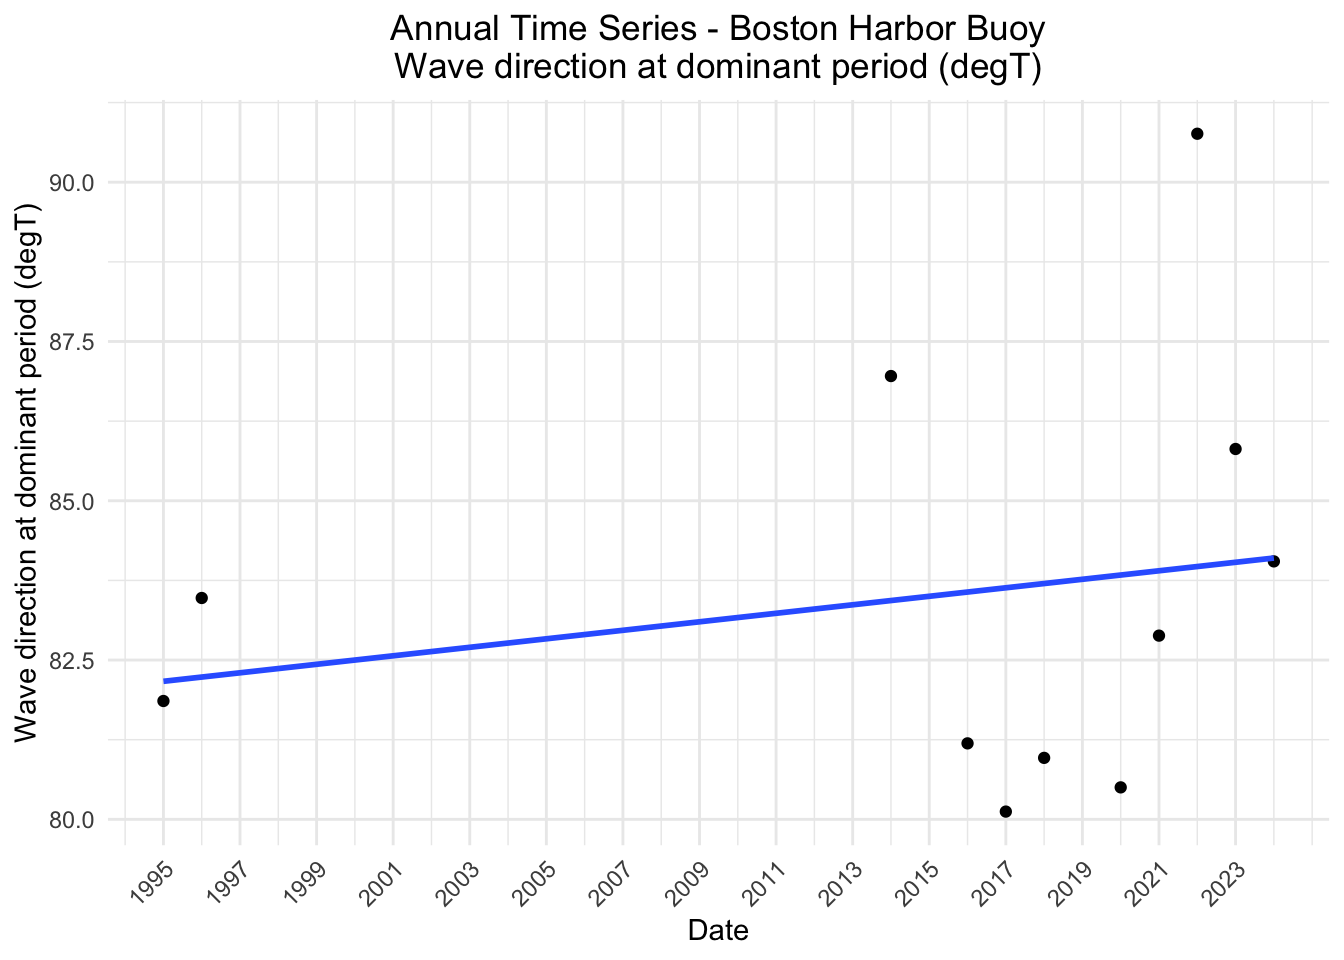
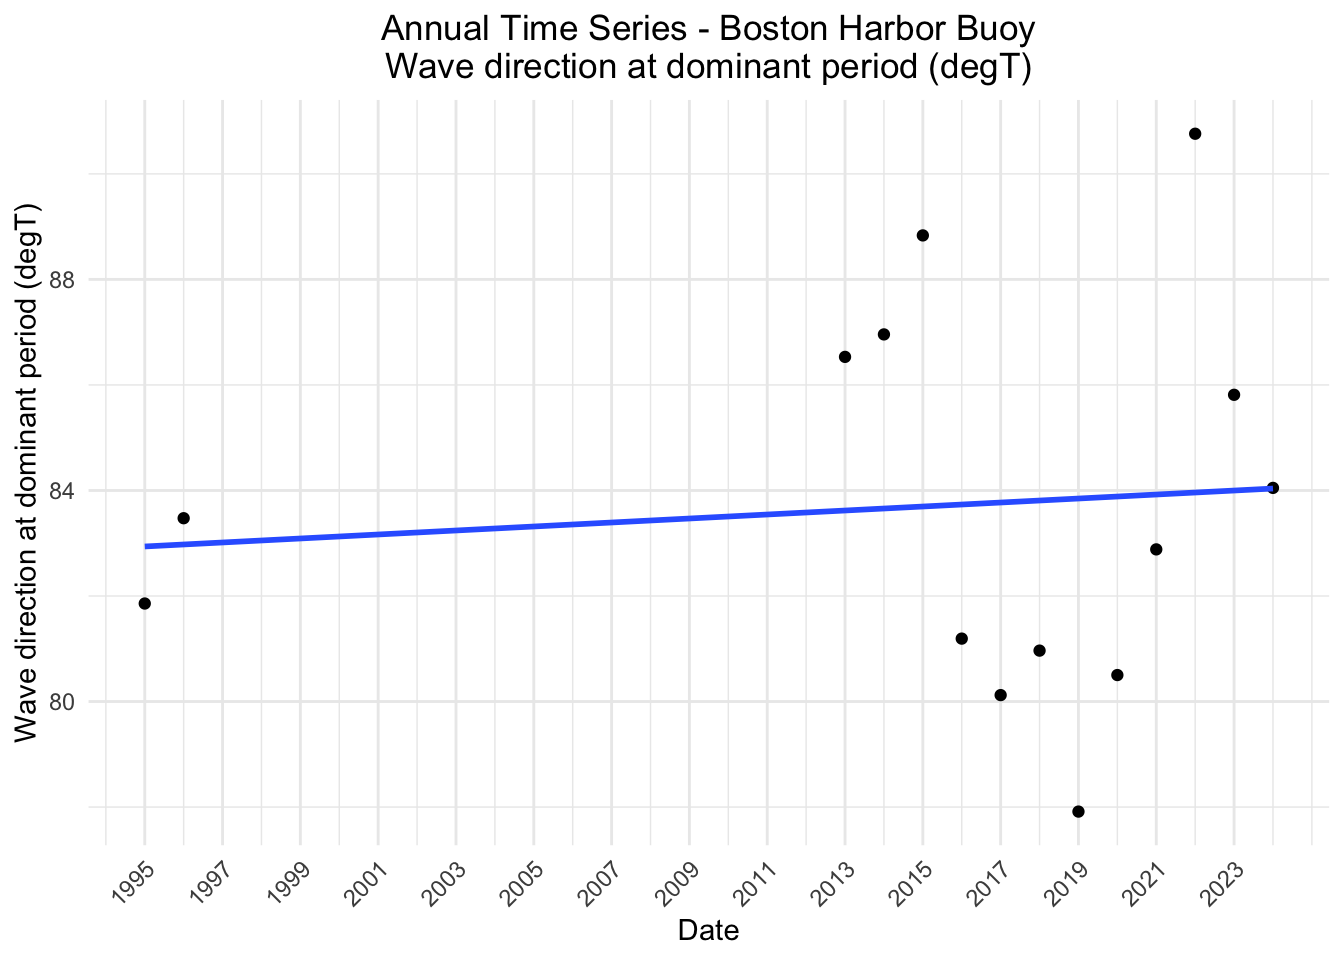
Update 80% complete data filter to remove daily NAs

diff --git a/quarto_docs/buoy_44013_NDBC.html b/quarto_docs/buoy_44013_NDBC.html
@@ -465,35 +465,36 @@ pre > code.sourceCode > span > a:first-child::before { text-decoration: underlin
 <span id="cb6-26"><a href="#cb6-26" aria-hidden="true" tabindex="-1"></a>             <span class="fu">sum</span>(<span class="sc">!</span><span class="fu">is.na</span>(.x)) <span class="sc">&gt;=</span> <span class="fl">0.8</span> <span class="sc">*</span> <span class="fu">n</span>(),</span>
 <span id="cb6-27"><a href="#cb6-27" aria-hidden="true" tabindex="-1"></a>             <span class="fu">as.numeric</span>(</span>
 <span id="cb6-28"><a href="#cb6-28" aria-hidden="true" tabindex="-1"></a>               circular<span class="sc">::</span><span class="fu">mean.circular</span>(</span>
-<span id="cb6-29"><a href="#cb6-29" aria-hidden="true" tabindex="-1"></a>                 circular<span class="sc">::</span><span class="fu">circular</span>(.x, <span class="at">units =</span> <span class="st">"degrees"</span>, <span class="at">modulo =</span> <span class="st">"2pi"</span>)</span>
-<span id="cb6-30"><a href="#cb6-30" aria-hidden="true" tabindex="-1"></a>               )</span>
-<span id="cb6-31"><a href="#cb6-31" aria-hidden="true" tabindex="-1"></a>             ),</span>
-<span id="cb6-32"><a href="#cb6-32" aria-hidden="true" tabindex="-1"></a>             <span class="cn">NA_real_</span></span>
-<span id="cb6-33"><a href="#cb6-33" aria-hidden="true" tabindex="-1"></a>           )</span>
-<span id="cb6-34"><a href="#cb6-34" aria-hidden="true" tabindex="-1"></a>    ),</span>
-<span id="cb6-35"><a href="#cb6-35" aria-hidden="true" tabindex="-1"></a>    <span class="at">.groups =</span> <span class="st">"drop"</span></span>
-<span id="cb6-36"><a href="#cb6-36" aria-hidden="true" tabindex="-1"></a>  ) <span class="sc">|&gt;</span> </span>
-<span id="cb6-37"><a href="#cb6-37" aria-hidden="true" tabindex="-1"></a>  <span class="fu">relocate</span>(WDIR, <span class="at">.before =</span> WSPD) <span class="sc">|&gt;</span> </span>
-<span id="cb6-38"><a href="#cb6-38" aria-hidden="true" tabindex="-1"></a>  <span class="fu">relocate</span>(MWD, <span class="at">.before =</span> ATMP)</span>
-<span id="cb6-39"><a href="#cb6-39" aria-hidden="true" tabindex="-1"></a></span>
+<span id="cb6-29"><a href="#cb6-29" aria-hidden="true" tabindex="-1"></a>                 circular<span class="sc">::</span><span class="fu">circular</span>(.x, <span class="at">units =</span> <span class="st">"degrees"</span>, <span class="at">modulo =</span> <span class="st">"2pi"</span>),</span>
+<span id="cb6-30"><a href="#cb6-30" aria-hidden="true" tabindex="-1"></a>                 <span class="at">na.rm =</span> <span class="cn">TRUE</span></span>
+<span id="cb6-31"><a href="#cb6-31" aria-hidden="true" tabindex="-1"></a>                 )</span>
+<span id="cb6-32"><a href="#cb6-32" aria-hidden="true" tabindex="-1"></a>               ),</span>
+<span id="cb6-33"><a href="#cb6-33" aria-hidden="true" tabindex="-1"></a>             <span class="cn">NA_real_</span></span>
+<span id="cb6-34"><a href="#cb6-34" aria-hidden="true" tabindex="-1"></a>           )</span>
+<span id="cb6-35"><a href="#cb6-35" aria-hidden="true" tabindex="-1"></a>    ),</span>
+<span id="cb6-36"><a href="#cb6-36" aria-hidden="true" tabindex="-1"></a>    <span class="at">.groups =</span> <span class="st">"drop"</span></span>
+<span id="cb6-37"><a href="#cb6-37" aria-hidden="true" tabindex="-1"></a>  ) <span class="sc">|&gt;</span> </span>
+<span id="cb6-38"><a href="#cb6-38" aria-hidden="true" tabindex="-1"></a>  <span class="fu">relocate</span>(WDIR, <span class="at">.before =</span> WSPD) <span class="sc">|&gt;</span> </span>
+<span id="cb6-39"><a href="#cb6-39" aria-hidden="true" tabindex="-1"></a>  <span class="fu">relocate</span>(MWD, <span class="at">.before =</span> ATMP)</span>
 <span id="cb6-40"><a href="#cb6-40" aria-hidden="true" tabindex="-1"></a></span>
-<span id="cb6-41"><a href="#cb6-41" aria-hidden="true" tabindex="-1"></a><span class="co"># Plot annual mean values for each variable</span></span>
-<span id="cb6-42"><a href="#cb6-42" aria-hidden="true" tabindex="-1"></a><span class="cf">for</span> (var <span class="cf">in</span> variables) {</span>
-<span id="cb6-43"><a href="#cb6-43" aria-hidden="true" tabindex="-1"></a>  p <span class="ot">&lt;-</span> <span class="fu">ggplot</span>(buoy_data_annual,</span>
-<span id="cb6-44"><a href="#cb6-44" aria-hidden="true" tabindex="-1"></a>              <span class="fu">aes</span>(<span class="at">x =</span> YYYY,</span>
-<span id="cb6-45"><a href="#cb6-45" aria-hidden="true" tabindex="-1"></a>                  <span class="at">y =</span> .data[[var]])) <span class="sc">+</span></span>
-<span id="cb6-46"><a href="#cb6-46" aria-hidden="true" tabindex="-1"></a>    <span class="fu">geom_point</span>() <span class="sc">+</span></span>
-<span id="cb6-47"><a href="#cb6-47" aria-hidden="true" tabindex="-1"></a>    <span class="fu">geom_smooth</span>(<span class="at">method =</span> <span class="st">"lm"</span>, <span class="at">se =</span> <span class="cn">FALSE</span>) <span class="sc">+</span></span>
-<span id="cb6-48"><a href="#cb6-48" aria-hidden="true" tabindex="-1"></a>    <span class="fu">labs</span>(<span class="at">x =</span> <span class="st">"Date"</span>,</span>
-<span id="cb6-49"><a href="#cb6-49" aria-hidden="true" tabindex="-1"></a>         <span class="at">y =</span> variables_meta[[var]],</span>
-<span id="cb6-50"><a href="#cb6-50" aria-hidden="true" tabindex="-1"></a>         <span class="at">title =</span> <span class="fu">paste</span>(<span class="st">"Annual Time Series - Boston Harbor Buoy"</span>,</span>
-<span id="cb6-51"><a href="#cb6-51" aria-hidden="true" tabindex="-1"></a>                       variables_meta[[var]], <span class="at">sep =</span> <span class="st">"</span><span class="sc">\n</span><span class="st">"</span>)) <span class="sc">+</span></span>
-<span id="cb6-52"><a href="#cb6-52" aria-hidden="true" tabindex="-1"></a>    <span class="fu">scale_color_brewer</span>(<span class="at">palette =</span> <span class="st">"Set2"</span>) <span class="sc">+</span></span>
-<span id="cb6-53"><a href="#cb6-53" aria-hidden="true" tabindex="-1"></a>    <span class="fu">scale_x_continuous</span>(</span>
-<span id="cb6-54"><a href="#cb6-54" aria-hidden="true" tabindex="-1"></a>      <span class="at">breaks =</span> <span class="fu">seq</span>(<span class="fu">min</span>(buoy_data_annual<span class="sc">$</span>YYYY), <span class="fu">max</span>(buoy_data_annual<span class="sc">$</span>YYYY), <span class="at">by =</span> <span class="dv">2</span>))</span>
-<span id="cb6-55"><a href="#cb6-55" aria-hidden="true" tabindex="-1"></a>  </span>
-<span id="cb6-56"><a href="#cb6-56" aria-hidden="true" tabindex="-1"></a>  <span class="fu">print</span>(p)</span>
-<span id="cb6-57"><a href="#cb6-57" aria-hidden="true" tabindex="-1"></a>}</span></code><button title="Copy to Clipboard" class="code-copy-button"><i class="bi"></i></button></pre></div>
+<span id="cb6-41"><a href="#cb6-41" aria-hidden="true" tabindex="-1"></a></span>
+<span id="cb6-42"><a href="#cb6-42" aria-hidden="true" tabindex="-1"></a><span class="co"># Plot annual mean values for each variable</span></span>
+<span id="cb6-43"><a href="#cb6-43" aria-hidden="true" tabindex="-1"></a><span class="cf">for</span> (var <span class="cf">in</span> variables) {</span>
+<span id="cb6-44"><a href="#cb6-44" aria-hidden="true" tabindex="-1"></a>  p <span class="ot">&lt;-</span> <span class="fu">ggplot</span>(buoy_data_annual,</span>
+<span id="cb6-45"><a href="#cb6-45" aria-hidden="true" tabindex="-1"></a>              <span class="fu">aes</span>(<span class="at">x =</span> YYYY,</span>
+<span id="cb6-46"><a href="#cb6-46" aria-hidden="true" tabindex="-1"></a>                  <span class="at">y =</span> .data[[var]])) <span class="sc">+</span></span>
+<span id="cb6-47"><a href="#cb6-47" aria-hidden="true" tabindex="-1"></a>    <span class="fu">geom_point</span>() <span class="sc">+</span></span>
+<span id="cb6-48"><a href="#cb6-48" aria-hidden="true" tabindex="-1"></a>    <span class="fu">geom_smooth</span>(<span class="at">method =</span> <span class="st">"lm"</span>, <span class="at">se =</span> <span class="cn">FALSE</span>) <span class="sc">+</span></span>
+<span id="cb6-49"><a href="#cb6-49" aria-hidden="true" tabindex="-1"></a>    <span class="fu">labs</span>(<span class="at">x =</span> <span class="st">"Date"</span>,</span>
+<span id="cb6-50"><a href="#cb6-50" aria-hidden="true" tabindex="-1"></a>         <span class="at">y =</span> variables_meta[[var]],</span>
+<span id="cb6-51"><a href="#cb6-51" aria-hidden="true" tabindex="-1"></a>         <span class="at">title =</span> <span class="fu">paste</span>(<span class="st">"Annual Time Series - Boston Harbor Buoy"</span>,</span>
+<span id="cb6-52"><a href="#cb6-52" aria-hidden="true" tabindex="-1"></a>                       variables_meta[[var]], <span class="at">sep =</span> <span class="st">"</span><span class="sc">\n</span><span class="st">"</span>)) <span class="sc">+</span></span>
+<span id="cb6-53"><a href="#cb6-53" aria-hidden="true" tabindex="-1"></a>    <span class="fu">scale_color_brewer</span>(<span class="at">palette =</span> <span class="st">"Set2"</span>) <span class="sc">+</span></span>
+<span id="cb6-54"><a href="#cb6-54" aria-hidden="true" tabindex="-1"></a>    <span class="fu">scale_x_continuous</span>(</span>
+<span id="cb6-55"><a href="#cb6-55" aria-hidden="true" tabindex="-1"></a>      <span class="at">breaks =</span> <span class="fu">seq</span>(<span class="fu">min</span>(buoy_data_annual<span class="sc">$</span>YYYY), <span class="fu">max</span>(buoy_data_annual<span class="sc">$</span>YYYY), <span class="at">by =</span> <span class="dv">2</span>))</span>
+<span id="cb6-56"><a href="#cb6-56" aria-hidden="true" tabindex="-1"></a>  </span>
+<span id="cb6-57"><a href="#cb6-57" aria-hidden="true" tabindex="-1"></a>  <span class="fu">print</span>(p)</span>
+<span id="cb6-58"><a href="#cb6-58" aria-hidden="true" tabindex="-1"></a>}</span></code><button title="Copy to Clipboard" class="code-copy-button"><i class="bi"></i></button></pre></div>
 </details>
 <div class="cell-output-display">
 <div>
